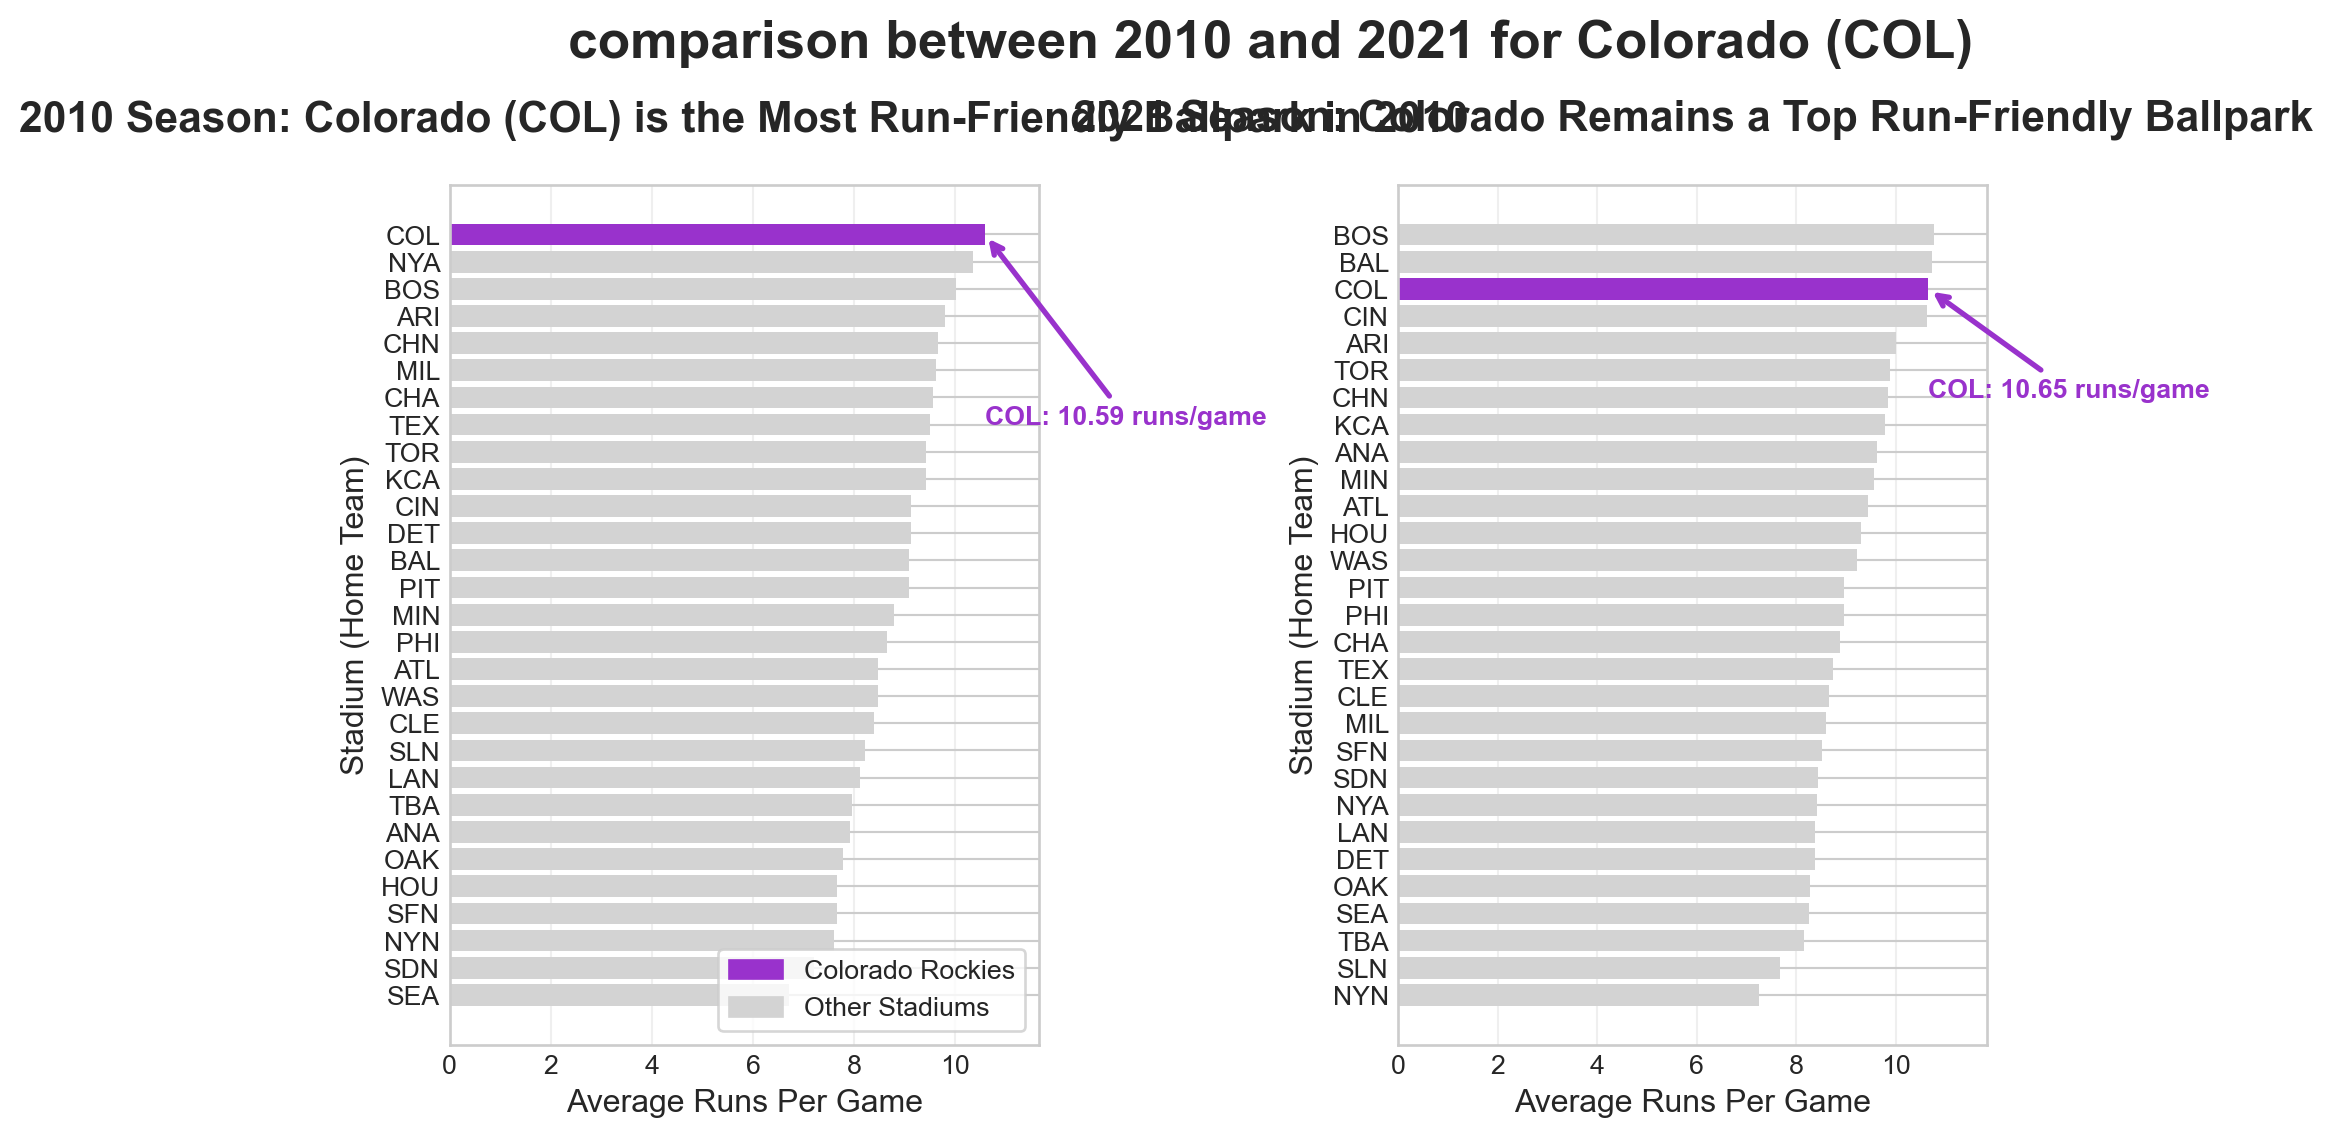
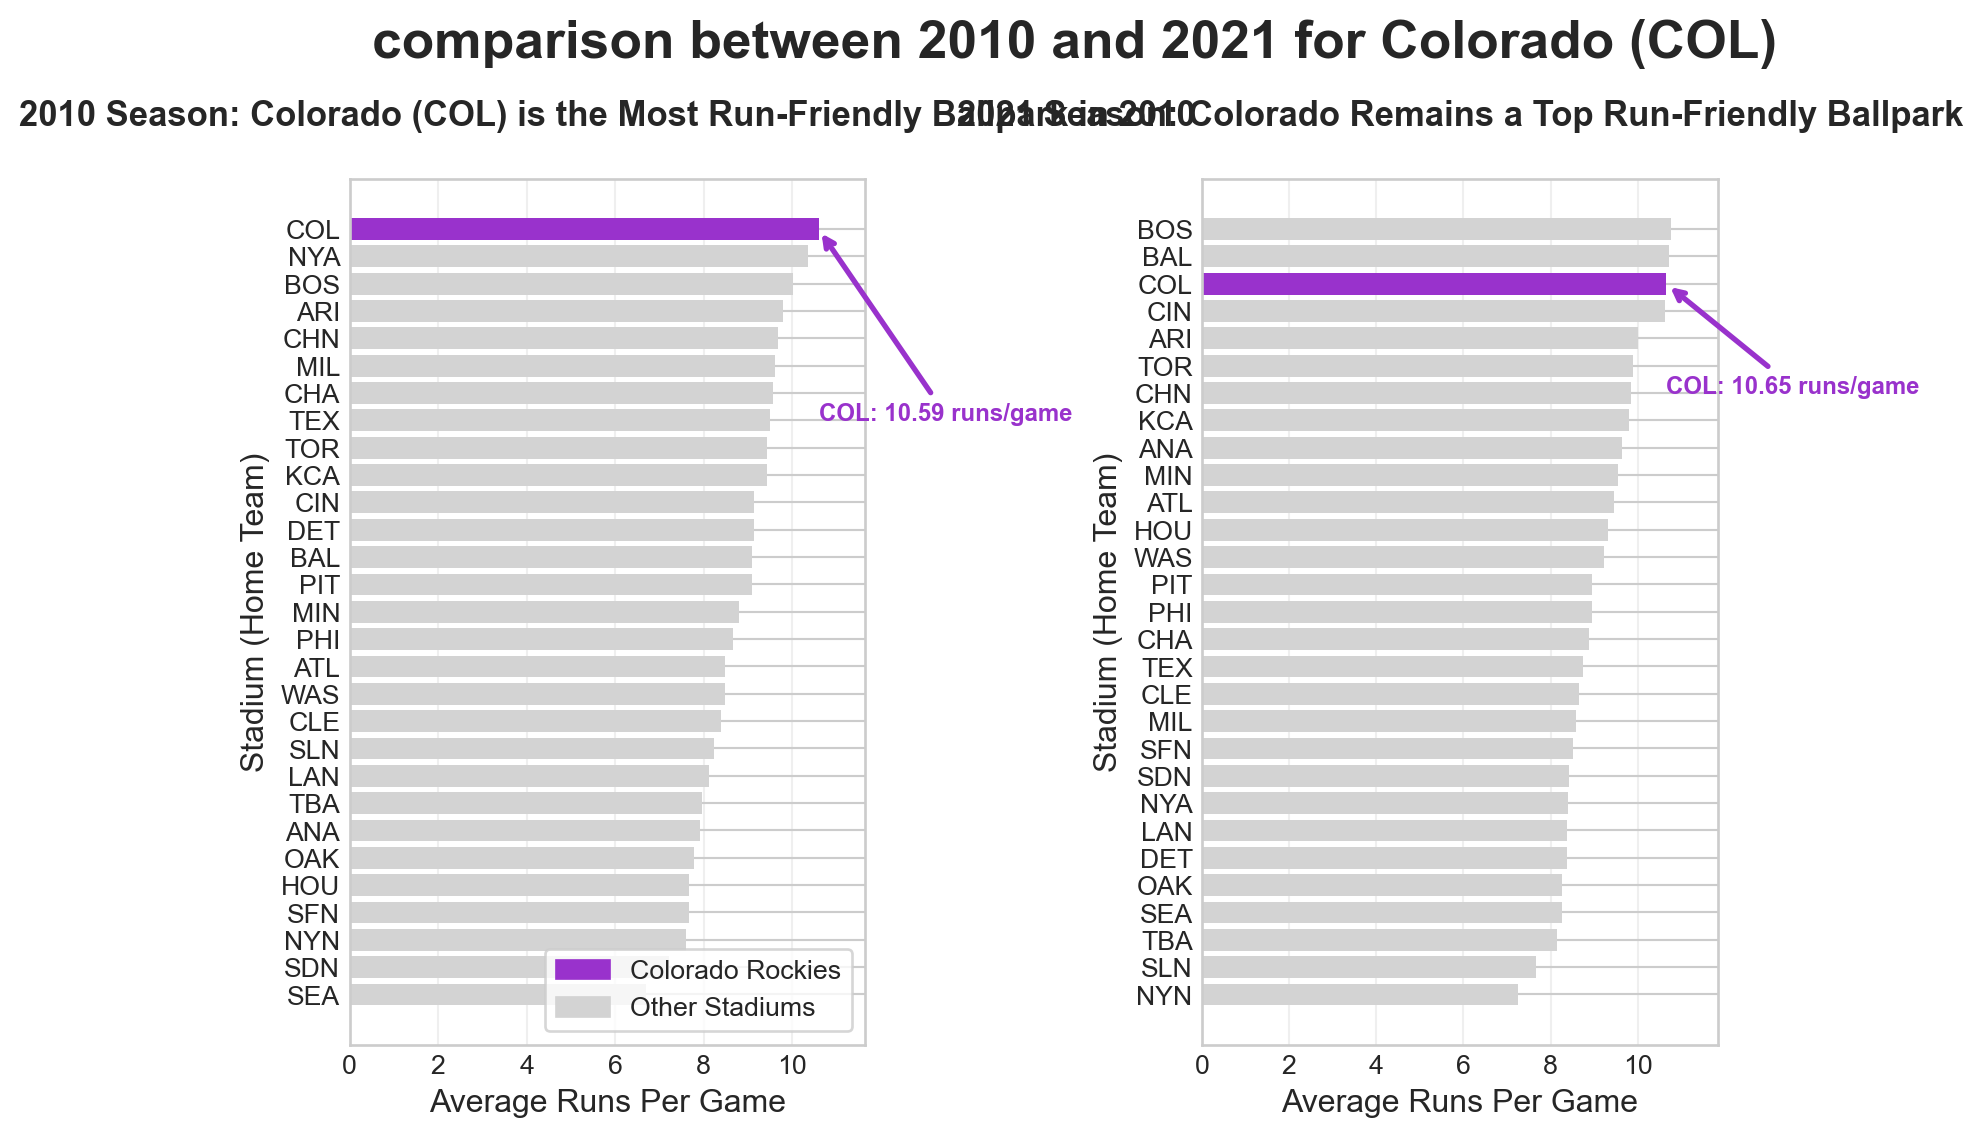
update size

diff --git a/index.html b/index.html
@@ -292,7 +292,7 @@ First few rows of 2010 data:
 <blockquote class="blockquote">
 <p>*<strong>ANSWER 1: Data Aggregation Strategy</strong></p>
 </blockquote>
-<div id="74a8d8fb" class="cell" data-execution_count="3">
+<div id="bf7e1490" class="cell" data-execution_count="3">
 <div class="code-copy-outer-scaffold"><div class="sourceCode cell-code" id="cb5"><pre class="sourceCode python code-with-copy"><code class="sourceCode python"><span id="cb5-1"><a href="#cb5-1" aria-hidden="true" tabindex="-1"></a><span class="bu">print</span>(<span class="st">"2010 data shape:"</span>, df2010.shape)</span>
 <span id="cb5-2"><a href="#cb5-2" aria-hidden="true" tabindex="-1"></a><span class="bu">print</span>(<span class="st">"2021 data shape:"</span>, df2021.shape)</span></code></pre></div><button title="Copy to Clipboard" class="code-copy-button"><i class="bi"></i></button></div>
 <div class="cell-output cell-output-stdout">
@@ -506,7 +506,7 @@ Colorado is 20.8% above league average</code></pre>
 <span id="cb11-17"><a href="#cb11-17" aria-hidden="true" tabindex="-1"></a>plt.style.use(<span class="st">"seaborn-v0_8-whitegrid"</span>)</span>
 <span id="cb11-18"><a href="#cb11-18" aria-hidden="true" tabindex="-1"></a></span>
 <span id="cb11-19"><a href="#cb11-19" aria-hidden="true" tabindex="-1"></a></span>
-<span id="cb11-20"><a href="#cb11-20" aria-hidden="true" tabindex="-1"></a>fig, axes <span class="op">=</span> plt.subplots(<span class="dv">1</span>, <span class="dv">2</span>, figsize<span class="op">=</span>(<span class="dv">10</span>, <span class="dv">6</span>))</span>
+<span id="cb11-20"><a href="#cb11-20" aria-hidden="true" tabindex="-1"></a>fig, axes <span class="op">=</span> plt.subplots(<span class="dv">1</span>, <span class="dv">2</span>, figsize<span class="op">=</span>(<span class="dv">9</span>, <span class="dv">6</span>))</span>
 <span id="cb11-21"><a href="#cb11-21" aria-hidden="true" tabindex="-1"></a></span>
 <span id="cb11-22"><a href="#cb11-22" aria-hidden="true" tabindex="-1"></a></span>
 <span id="cb11-23"><a href="#cb11-23" aria-hidden="true" tabindex="-1"></a><span class="co"># Create color array for highlighting Colorado</span></span>
@@ -517,7 +517,7 @@ Colorado is 20.8% above league average</code></pre>
 <span id="cb11-28"><a href="#cb11-28" aria-hidden="true" tabindex="-1"></a></span>
 <span id="cb11-29"><a href="#cb11-29" aria-hidden="true" tabindex="-1"></a><span class="co"># Add title and labels</span></span>
 <span id="cb11-30"><a href="#cb11-30" aria-hidden="true" tabindex="-1"></a>axes[<span class="dv">0</span>].set_title(<span class="st">"2010 Season: Colorado (COL) is the Most Run-Friendly Ballpark in 2010"</span>, </span>
-<span id="cb11-31"><a href="#cb11-31" aria-hidden="true" tabindex="-1"></a>             fontsize<span class="op">=</span><span class="dv">16</span>, fontweight<span class="op">=</span><span class="st">'bold'</span>, pad<span class="op">=</span><span class="dv">20</span>)</span>
+<span id="cb11-31"><a href="#cb11-31" aria-hidden="true" tabindex="-1"></a>             fontsize<span class="op">=</span><span class="dv">13</span>, fontweight<span class="op">=</span><span class="st">'bold'</span>, pad<span class="op">=</span><span class="dv">20</span>)</span>
 <span id="cb11-32"><a href="#cb11-32" aria-hidden="true" tabindex="-1"></a>axes[<span class="dv">0</span>].set_xlabel(<span class="st">"Average Runs Per Game"</span>, fontsize<span class="op">=</span><span class="dv">12</span>)</span>
 <span id="cb11-33"><a href="#cb11-33" aria-hidden="true" tabindex="-1"></a>axes[<span class="dv">0</span>].set_ylabel(<span class="st">"Stadium (Home Team)"</span>, fontsize<span class="op">=</span><span class="dv">12</span>)</span>
 <span id="cb11-34"><a href="#cb11-34" aria-hidden="true" tabindex="-1"></a></span>
@@ -533,7 +533,7 @@ Colorado is 20.8% above league average</code></pre>
 <span id="cb11-44"><a href="#cb11-44" aria-hidden="true" tabindex="-1"></a>            xy<span class="op">=</span>(colorado_runs_2010, colorado_index<span class="op">+</span><span class="dv">19</span>), </span>
 <span id="cb11-45"><a href="#cb11-45" aria-hidden="true" tabindex="-1"></a>            xytext<span class="op">=</span>(colorado_runs_2010, colorado_index<span class="op">+</span><span class="dv">12</span>),</span>
 <span id="cb11-46"><a href="#cb11-46" aria-hidden="true" tabindex="-1"></a>            arrowprops<span class="op">=</span><span class="bu">dict</span>(arrowstyle<span class="op">=</span><span class="st">'-&gt;'</span>, color<span class="op">=</span><span class="st">'darkorchid'</span>, lw<span class="op">=</span><span class="dv">2</span>),</span>
-<span id="cb11-47"><a href="#cb11-47" aria-hidden="true" tabindex="-1"></a>            fontsize<span class="op">=</span><span class="dv">10</span>, fontweight<span class="op">=</span><span class="st">'bold'</span>, color<span class="op">=</span><span class="st">'darkorchid'</span>,</span>
+<span id="cb11-47"><a href="#cb11-47" aria-hidden="true" tabindex="-1"></a>            fontsize<span class="op">=</span><span class="dv">9</span>, fontweight<span class="op">=</span><span class="st">'bold'</span>, color<span class="op">=</span><span class="st">'darkorchid'</span>,</span>
 <span id="cb11-48"><a href="#cb11-48" aria-hidden="true" tabindex="-1"></a>          )</span>
 <span id="cb11-49"><a href="#cb11-49" aria-hidden="true" tabindex="-1"></a></span>
 <span id="cb11-50"><a href="#cb11-50" aria-hidden="true" tabindex="-1"></a><span class="co"># Set x-axis to start from 0 for better comparison</span></span>
@@ -550,7 +550,7 @@ Colorado is 20.8% above league average</code></pre>
 <span id="cb11-61"><a href="#cb11-61" aria-hidden="true" tabindex="-1"></a></span>
 <span id="cb11-62"><a href="#cb11-62" aria-hidden="true" tabindex="-1"></a><span class="co"># Add title and labels</span></span>
 <span id="cb11-63"><a href="#cb11-63" aria-hidden="true" tabindex="-1"></a>axes[<span class="dv">1</span>].set_title(<span class="st">"2021 Season: Colorado Remains a Top Run-Friendly Ballpark"</span>, </span>
-<span id="cb11-64"><a href="#cb11-64" aria-hidden="true" tabindex="-1"></a>             fontsize<span class="op">=</span><span class="dv">16</span>, fontweight<span class="op">=</span><span class="st">'bold'</span>, pad<span class="op">=</span><span class="dv">20</span>)</span>
+<span id="cb11-64"><a href="#cb11-64" aria-hidden="true" tabindex="-1"></a>             fontsize<span class="op">=</span><span class="dv">13</span>, fontweight<span class="op">=</span><span class="st">'bold'</span>, pad<span class="op">=</span><span class="dv">20</span>)</span>
 <span id="cb11-65"><a href="#cb11-65" aria-hidden="true" tabindex="-1"></a>axes[<span class="dv">1</span>].set_xlabel(<span class="st">"Average Runs Per Game"</span>, fontsize<span class="op">=</span><span class="dv">12</span>)</span>
 <span id="cb11-66"><a href="#cb11-66" aria-hidden="true" tabindex="-1"></a>axes[<span class="dv">1</span>].set_ylabel(<span class="st">"Stadium (Home Team)"</span>, fontsize<span class="op">=</span><span class="dv">12</span>)</span>
 <span id="cb11-67"><a href="#cb11-67" aria-hidden="true" tabindex="-1"></a></span>
@@ -561,7 +561,7 @@ Colorado is 20.8% above league average</code></pre>
 <span id="cb11-72"><a href="#cb11-72" aria-hidden="true" tabindex="-1"></a>            xy<span class="op">=</span>(colorado_runs_2021, colorado_index_2021<span class="op">+</span><span class="dv">17</span>), </span>
 <span id="cb11-73"><a href="#cb11-73" aria-hidden="true" tabindex="-1"></a>            xytext<span class="op">=</span>(colorado_runs_2021, colorado_index_2021<span class="op">+</span><span class="dv">13</span>),</span>
 <span id="cb11-74"><a href="#cb11-74" aria-hidden="true" tabindex="-1"></a>            arrowprops<span class="op">=</span><span class="bu">dict</span>(arrowstyle<span class="op">=</span><span class="st">'-&gt;'</span>, color<span class="op">=</span><span class="st">'darkorchid'</span>, lw<span class="op">=</span><span class="dv">2</span>),</span>
-<span id="cb11-75"><a href="#cb11-75" aria-hidden="true" tabindex="-1"></a>            fontsize<span class="op">=</span><span class="dv">10</span>, fontweight<span class="op">=</span><span class="st">'bold'</span>, color<span class="op">=</span><span class="st">'darkorchid'</span>,</span>
+<span id="cb11-75"><a href="#cb11-75" aria-hidden="true" tabindex="-1"></a>            fontsize<span class="op">=</span><span class="dv">9</span>, fontweight<span class="op">=</span><span class="st">'bold'</span>, color<span class="op">=</span><span class="st">'darkorchid'</span>,</span>
 <span id="cb11-76"><a href="#cb11-76" aria-hidden="true" tabindex="-1"></a>          )</span>
 <span id="cb11-77"><a href="#cb11-77" aria-hidden="true" tabindex="-1"></a></span>
 <span id="cb11-78"><a href="#cb11-78" aria-hidden="true" tabindex="-1"></a><span class="co"># Set x-axis to start from 0 for better comparison</span></span>
@@ -596,7 +596,7 @@ Colorado is 20.8% above league average</code></pre>
 <div class="cell-output cell-output-display">
 <div>
 <figure class="figure">
-<p><img src="index_files/figure-html/advanced-oo-techniques-output-1.png" id="advanced-oo-techniques" width="1166" height="569" class="figure-img"></p>
+<p><img src="index_files/figure-html/advanced-oo-techniques-output-1.png" id="advanced-oo-techniques" width="991" height="569" class="figure-img"></p>
 </figure>
 </div>
 </div>
